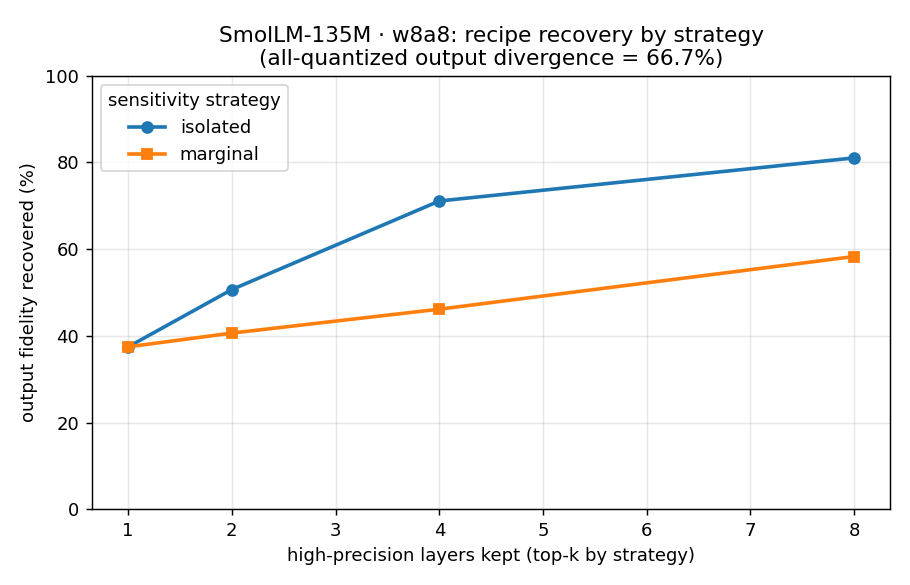
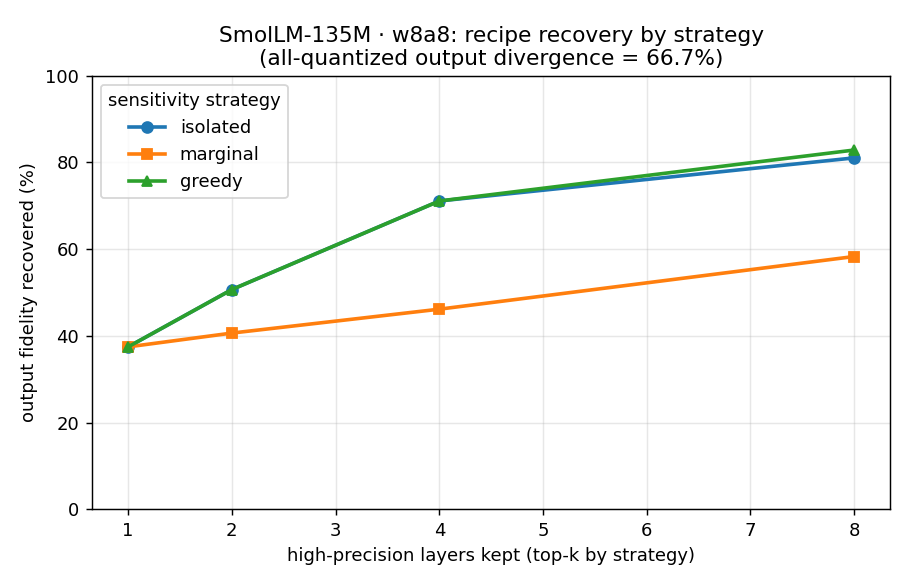
quant-recipe: greedy (wrapper) strategy + feature-selection framing
greedy = sequential forward selection: repeatedly add to the high-precision set
the layer that most reduces output divergence GIVEN what's already kept,
re-measuring each step. It's a recipe SEARCH (not a per-layer score), so it's a
recipe-only strategy (RECIPE_STRATEGIES = isolated/marginal/greedy); the pure
_greedy_select is fast-tested with a synthetic oracle.

Result (CPU/W8A8/SmolLM): greedy is provably >= the single-pass strategies and
clearly beats marginal, but only TIES isolated through k=4 and edges it at k=8
(82.8% vs 81.0%). layer.28 dominates so interactions are weak → the cheap filter
(isolated) lands on ~the greedy-optimal set. Greedy's wrapper advantage should
widen where sensitivity is distributed (bigger models, int4). Mechanism check:
greedy's 2nd pick is layer.29 (conditioned on 28 kept), not marginal's
independent layer.4 — it accounts for context correctly.

demo + docs updated to 3 strategies, with the feature-selection taxonomy
(filter=isolated/marginal/HAWQ-Hessian/AWQ; wrapper=greedy/HAQ; embedded=DNAS)
and the filter-vs-wrapper / use-cheap-when-one-dominates framing.

diff --git a/src/firefly/quant_sensitivity.py b/src/firefly/quant_sensitivity.py
@@ -255,6 +255,65 @@ def _recommend_k(curve: list[RecipePoint], target: float) -> int:
     return max((p.k for p in curve), default=0)
 
 
+#: ``greedy`` is a recipe SEARCH, not a per-layer score — it doesn't fit the
+#: STRATEGIES (score-based) seam, so it's a recipe-only strategy.
+GREEDY = "greedy"
+RECIPE_STRATEGIES = (*sorted(STRATEGIES), GREEDY)
+
+
+def _greedy_select(
+    layers: dict[int, list[str]],
+    all_fqns: set[str],
+    measure: Callable[[set[str]], float],
+    max_k: int,
+) -> list[tuple[int, float]]:
+    """Sequential forward selection: repeatedly add to the high-precision set
+    the layer that most reduces output divergence *given what's already kept*,
+    re-measuring each step. Returns ``(layer, divergence_after_adding)`` in
+    selection order. Accounts for interactions, unlike a single-pass ranking."""
+    kept: list[int] = []
+    kept_fqns: set[str] = set()
+    order: list[tuple[int, float]] = []
+    while len(kept) < max_k:
+        best: tuple[float, int] | None = None  # (divergence, layer)
+        for idx, fqns in layers.items():
+            if idx in kept:
+                continue
+            div = measure(all_fqns - (kept_fqns | set(fqns)))  # keep kept+candidate fp
+            if best is None or div < best[0]:
+                best = (div, idx)
+        assert best is not None
+        div, idx = best
+        kept.append(idx)
+        kept_fqns |= set(layers[idx])
+        order.append((idx, div))
+    return order
+
+
+def _greedy_curve(ctx: _Ctx, k_values: list[int], full_div: float) -> tuple[list[RecipePoint], list[LayerSensitivity]]:
+    wanted = sorted({k for k in k_values if 0 < k < len(ctx.layers)})
+    order = _greedy_select(ctx.layers, ctx.all_fqns, ctx.measure, max(wanted, default=0))
+
+    by_k: dict[int, tuple[list[int], float]] = {}
+    gains: dict[int, float] = {}
+    prev = full_div
+    for step, (idx, div) in enumerate(order, 1):
+        by_k[step] = ([o[0] for o in order[:step]], div)
+        gains[idx] = max(0.0, prev - div)  # marginal divergence reduction at selection time
+        prev = div
+
+    curve = [
+        RecipePoint(k, by_k[k][0], by_k[k][1], _recovery(full_div, by_k[k][1])) for k in wanted
+    ]
+    # Per-layer "sensitivity" for greedy = its marginal gain when selected (0 if
+    # never selected). Keeps SensitivityResult/render_recipe working uniformly.
+    layers = [
+        LayerSensitivity(idx, gains.get(idx, 0.0), raw_divergence=0.0, n_linears=len(fqns))
+        for idx, fqns in ctx.layers.items()
+    ]
+    return curve, layers
+
+
 def compute_recipe(
     model_id: str,
     inputs_path: Path,
@@ -266,24 +325,31 @@ def compute_recipe(
     k_values: list[int] | None = None,
     recovery_target: float = 0.9,
 ) -> RecipeResult:
-    """Rank layers, then build + **verify** mixed-precision recipes: for each k,
-    keep the top-k sensitive layers in high precision, quantize the rest, and
-    measure the recovered output fidelity. The curve both delivers the recipe
-    and verifies the ranking actually predicts good recipes."""
-    if strategy not in STRATEGIES:
-        raise ValueError(f"unknown strategy {strategy!r}; choose from {sorted(STRATEGIES)}")
+    """Build + **verify** mixed-precision recipes: for each k, keep the chosen
+    layers in high precision, quantize the rest, and measure the recovered
+    output fidelity. ``isolated``/``marginal`` keep the top-k by a single-pass
+    per-layer score; ``greedy`` builds the keep-set by sequential forward
+    selection (more measurements, accounts for interactions). The curve both
+    delivers the recipe and verifies the strategy."""
+    if strategy not in RECIPE_STRATEGIES:
+        raise ValueError(f"unknown strategy {strategy!r}; choose from {list(RECIPE_STRATEGIES)}")
     ctx = _setup(model_id, inputs_path, device, dtype, scheme, group_size)
-    sens = _run_sensitivity(ctx, strategy)
-    full_div = sens.full_quant_divergence
     n_layers = len(ctx.layers)
-
     if k_values is None:
         k_values = [k for k in (1, 2, 4, 8, 16) if k < n_layers]
-    curve: list[RecipePoint] = []
-    for k in sorted({k for k in k_values if 0 < k < n_layers}):
-        keep = sens.keep_high_precision(k)
-        keep_fqns = {fqn for idx in keep for fqn in ctx.layers[idx]}
-        div = ctx.measure(ctx.all_fqns - keep_fqns)  # quantize all EXCEPT kept layers
-        curve.append(RecipePoint(k, keep, div, _recovery(full_div, div)))
+
+    if strategy == GREEDY:
+        full_div = ctx.measure(ctx.all_fqns)
+        curve, layers = _greedy_curve(ctx, k_values, full_div)
+        sens = SensitivityResult(ctx.model_id, ctx.scheme, GREEDY, full_div, layers)
+    else:
+        sens = _run_sensitivity(ctx, strategy)
+        full_div = sens.full_quant_divergence
+        curve = []
+        for k in sorted({k for k in k_values if 0 < k < n_layers}):
+            keep = sens.keep_high_precision(k)
+            keep_fqns = {fqn for idx in keep for fqn in ctx.layers[idx]}
+            div = ctx.measure(ctx.all_fqns - keep_fqns)
+            curve.append(RecipePoint(k, keep, div, _recovery(full_div, div)))
 
     return RecipeResult(sens, curve, _recommend_k(curve, recovery_target), recovery_target)

diff --git a/tests/test_quant_sensitivity.py b/tests/test_quant_sensitivity.py
@@ -167,6 +167,55 @@ def test_compute_recipe_smollm_recovers_fidelity() -> None:
     assert result.recommended_k in {1, 2, 4, 8}
 
 
+def test_greedy_select_picks_highest_impact_first() -> None:
+    from firefly.quant_sensitivity import _greedy_select
+
+    layers = {0: ["l0"], 1: ["l1"], 2: ["l2"]}
+    all_fqns = {"l0", "l1", "l2"}
+    # Synthetic oracle: divergence = sum of penalties for the QUANTIZED layers.
+    # Keeping a high-penalty layer fp (out of `targets`) reduces divergence most.
+    penalty = {"l0": 0.1, "l1": 0.2, "l2": 0.5}
+
+    def measure(targets: set[str]) -> float:
+        return sum(penalty[f] for f in targets)
+
+    order = _greedy_select(layers, all_fqns, measure, max_k=3)
+    # Greedy keeps the biggest-penalty layer first, then next, then last.
+    assert [idx for idx, _ in order] == [2, 1, 0]
+    # Divergence after each step decreases monotonically (0.3, 0.1, 0.0).
+    divs = [d for _, d in order]
+    assert divs == sorted(divs, reverse=True)
+    assert divs[-1] == pytest.approx(0.0)
+
+
+def test_greedy_is_a_recipe_strategy_not_a_score_strategy() -> None:
+    from firefly.quant_sensitivity import GREEDY, RECIPE_STRATEGIES
+
+    assert GREEDY in RECIPE_STRATEGIES
+    assert GREEDY not in STRATEGIES  # greedy is a search, not a per-layer score
+
+
[email redacted]
+def test_compute_recipe_smollm_greedy_runs() -> None:
+    pytest.importorskip("torchao", reason="quant recipe needs the torchao extra")
+    import tempfile
+
+    from firefly.quant_sensitivity import compute_recipe
+
+    inputs = Path(tempfile.mkdtemp()) / "golden.json"
+    inputs.write_text(json.dumps({"texts": ["the quick brown fox"], "max_length": 12}))
+
+    result = compute_recipe(
+        "HuggingFaceTB/SmolLM-135M", inputs, device="cpu", scheme="w8a8",
+        strategy="greedy", k_values=[1, 2, 4],
+    )
+    assert result.sensitivity.strategy == "greedy"
+    assert len(result.curve) == 3
+    by_k = sorted(result.curve, key=lambda p: p.k)
+    # Greedy recovery is monotonic non-decreasing in k (each step only helps).
+    assert all(a.recovery <= b.recovery + 1e-6 for a, b in zip(by_k, by_k[1:], strict=False))
+
+
 @pytest.mark.slow
 def test_compute_sensitivity_smollm_marginal_runs() -> None:
     """The marginal strategy runs end-to-end and yields valid recovery scores.

diff --git a/scripts/demo_quant_recipe.py b/scripts/demo_quant_recipe.py
@@ -23,7 +23,7 @@ from pathlib import Path
 
 from firefly.quant_sensitivity import compute_recipe
 
-_STRATEGIES = ("isolated", "marginal")
+_STRATEGIES = ("isolated", "marginal", "greedy")
 
 
 def main() -> None:
@@ -57,11 +57,12 @@ def main() -> None:
     full_div = results["isolated"].sensitivity.full_quant_divergence
     print(f"\nall {len(results['isolated'].sensitivity.layers)} layers quantized "
           f"({args.scheme}) -> {full_div:.2%} output divergence\n")
-    print(f"{'k':>3}  {'isolated recovery':>18}  {'marginal recovery':>18}")
-    iso = {p.k: p for p in results["isolated"].curve}
-    mar = {p.k: p for p in results["marginal"].curve}
+    by_strat = {s: {p.k: p for p in results[s].curve} for s in _STRATEGIES}
+    header = "  ".join(f"{s:>12} recov" for s in _STRATEGIES)
+    print(f"{'k':>3}  {header}")
     for k in ks:
-        print(f"{k:>3}  {iso[k].recovery:>17.1%}  {mar[k].recovery:>17.1%}")
+        cells = "  ".join(f"{by_strat[s][k].recovery:>17.1%}" for s in _STRATEGIES)
+        print(f"{k:>3}  {cells}")
 
     out = Path(args.out_dir)
     (out / "results").mkdir(parents=True, exist_ok=True)
@@ -90,7 +91,9 @@ def main() -> None:
     import matplotlib.pyplot as plt
 
     fig, ax = plt.subplots(figsize=(7, 4.5))
-    for strat, marker in (("isolated", "o"), ("marginal", "s")):
+    for strat, marker in (("isolated", "o"), ("marginal", "s"), ("greedy", "^")):
+        if strat not in results:
+            continue
         curve = sorted(results[strat].curve, key=lambda p: p.k)
         ax.plot(
             [p.k for p in curve], [p.recovery * 100 for p in curve],

diff --git a/src/firefly/cli.py b/src/firefly/cli.py
@@ -702,7 +702,12 @@ def quant_recipe(
     inputs: Path = typer.Option(..., "--inputs", "-i", help="Golden-inputs JSON."),
     scheme: str = typer.Option("w8a8", "--scheme", help="torchao scheme: w8a8 or int4wo."),
     group_size: int = typer.Option(32, "--group-size", help="int4wo group size."),
-    strategy: str = typer.Option("isolated", "--strategy", help="Sensitivity strategy."),
+    strategy: str = typer.Option(
+        "isolated", "--strategy",
+        help="Recipe strategy: isolated/marginal (single-pass per-layer ranking) "
+        "or greedy (sequential forward selection — more compute, accounts for "
+        "layer interactions).",
+    ),
     k_values: str = typer.Option(
         "1,2,4,8", "--k-values",
         help="Comma-separated keep-high-precision counts to evaluate (the curve).",
@@ -723,13 +728,13 @@ def quant_recipe(
     fidelity. The curve shows how few high-precision layers recover most of the
     fidelity — the attribution-guided answer torchao autoquant can't explain.
     """
-    from firefly.quant_sensitivity import STRATEGIES, compute_recipe
+    from firefly.quant_sensitivity import RECIPE_STRATEGIES, compute_recipe
     from firefly.quant_validate import QuantCompatibilityError, quant_preflight
     from firefly.report import render_recipe
 
-    if strategy not in STRATEGIES:
+    if strategy not in RECIPE_STRATEGIES:
         raise typer.BadParameter(
-            f"--strategy must be one of {sorted(STRATEGIES)}, got {strategy!r}",
+            f"--strategy must be one of {list(RECIPE_STRATEGIES)}, got {strategy!r}",
             param_hint="--strategy",
         )
     try:

diff --git a/docs/quant-recipe.md b/docs/quant-recipe.md
@@ -24,37 +24,58 @@ quantize the rest, and measure how much of the degradation you actually recover.
 
 Nothing here is predicted from a proxy — every number is a measured forward pass.
 
-## Two strategies, measured head to head
+## This is a feature-selection problem
 
-How you score "sensitivity" is a pluggable strategy:
+Choosing which layers to keep in high precision is, structurally, **subset
+selection**: a set of "features" (layers), and you pick which to keep fp to
+minimize quality loss under a budget. (The general K-bit version is categorical
+per layer — a knapsack/bit-allocation problem — but the keep-fp-vs-quantize case
+is exactly binary subset selection.) That maps the methods people use onto the
+classic feature-selection taxonomy:
 
-- **isolated** — quantize *only* layer `i`; rank by the divergence it causes
-  alone. This surfaces the *intrinsically* hard-to-quantize layers (the late,
-  high-activation/outlier layers).
-- **marginal** — quantize *all but* layer `i`; rank by how much keeping it fp
-  *recovers*. The seemingly more decision-relevant signal.
+- **Filter** (cheap per-item score, then threshold) → per-layer **sensitivity
+  ranking**. Our `isolated`/`marginal`; HAWQ's Hessian-trace sensitivity; AWQ's
+  activation salience.
+- **Wrapper** (evaluate subsets by running the model) → **search**. Our
+  `greedy` (sequential forward selection); HAQ's RL bit-allocation.
+- **Embedded** (learned during training) → learnable bit-widths (DNAS, QAT).
 
-I expected `marginal` to win. It doesn't:
+And the reason wrapper methods beat filter methods in feature selection —
+**interactions / non-additivity** — is exactly what shows up here.
+
+## Three strategies, measured head to head
+
+How you choose the keep-set is a pluggable strategy:
+
+- **isolated** (filter) — quantize *only* layer `i`; rank by the divergence it
+  causes alone. Surfaces the *intrinsically* hard-to-quantize layers.
+- **marginal** (filter) — quantize *all but* layer `i`; rank by how much keeping
+  it fp *recovers*. The seemingly more decision-relevant signal.
+- **greedy** (wrapper) — sequential forward selection: add the layer that most
+  reduces divergence *given what's already kept*, re-measure, repeat. More
+  measurements; accounts for interactions.
 
 ![Recipe recovery by strategy on SmolLM-135M, W8A8](plots/quant_recipe_strategies.png)
 
-On SmolLM-135M / W8A8, quantizing all 30 layers moves the output **66.7%**.
-Both strategies agree the single worst layer is `layer.28` (the model's
-massive-activation layer) — keeping it alone recovers 37%. But after that they
-diverge: keeping the top-4 **isolated** layers recovers **71%**, while the top-4
-**marginal** layers recover only **46%**.
+On SmolLM-135M / W8A8, quantizing all 30 layers moves the output **66.7%**. All
+three agree the single worst layer is `layer.28` (the model's massive-activation
+layer) — keeping it alone recovers 37%. After that:
 
-Why? `marginal` measures each layer's recovery *in a context where every other
-layer is still quantized* — dominated by catastrophic upstream error, that
-signal favors early layers whose recovery doesn't transfer once you keep several
-layers in fp. `isolated` ranks intrinsic difficulty, which picks the late
-outlier layers that actually matter in a multi-layer recipe.
+- **marginal** is the surprise loser — top-4 recovers only **46%**. It measures
+  each layer's recovery in a context where *everything else is still quantized*,
+  so it favors early layers whose recovery doesn't transfer to a multi-layer
+  recipe.
+- **isolated** recovers **71%** at top-4 — its intrinsic-difficulty ranking
+  picks the late outlier layers that actually matter together.
+- **greedy** is provably ≥ both and beats marginal clearly, but here it only
+  *ties* isolated through k=4 and edges it at k=8 (**82.8% vs 81.0%**).
 
-The honest takeaway: a single-pass ranking (either kind) is imperfect because a
-layer's contribution is **non-additive**. The better recipe likely needs a
-**greedy/iterative** strategy — add the layer that most improves the *current*
-recipe, re-measure, repeat — which is exactly the "spend more compute, get a
-better recipe" knob. The pluggable-strategy seam makes that a drop-in.
+The interesting part is *why greedy barely beats isolated*: `layer.28` dominates
+so heavily that the interactions are weak, so the cheap filter (`isolated`)
+lands on essentially the greedy-optimal set. Greedy's wrapper advantage should
+widen on models where sensitivity is more distributed — bigger models, int4. So
+the practical rule is the feature-selection rule: **use the cheap filter when
+one item dominates; spend the wrapper compute when interactions matter.**
 
 ## Reproduce it
 
@@ -65,9 +86,9 @@ uv run python scripts/demo_quant_recipe.py
 # rank layers by sensitivity:
 firefly quant-sensitivity -m HuggingFaceTB/SmolLM-135M -i golden.json --scheme w8a8
 
-# build + verify a recipe:
+# build + verify a recipe (try --strategy isolated | marginal | greedy):
 firefly quant-recipe -m HuggingFaceTB/SmolLM-135M -i golden.json \
-    --scheme w8a8 --k-values 1,2,4,8
+    --scheme w8a8 --strategy greedy --k-values 1,2,4,8
 ```
 
 `--scheme int4wo` runs the same thing for int4 weight-only (needs a CUDA GPU).